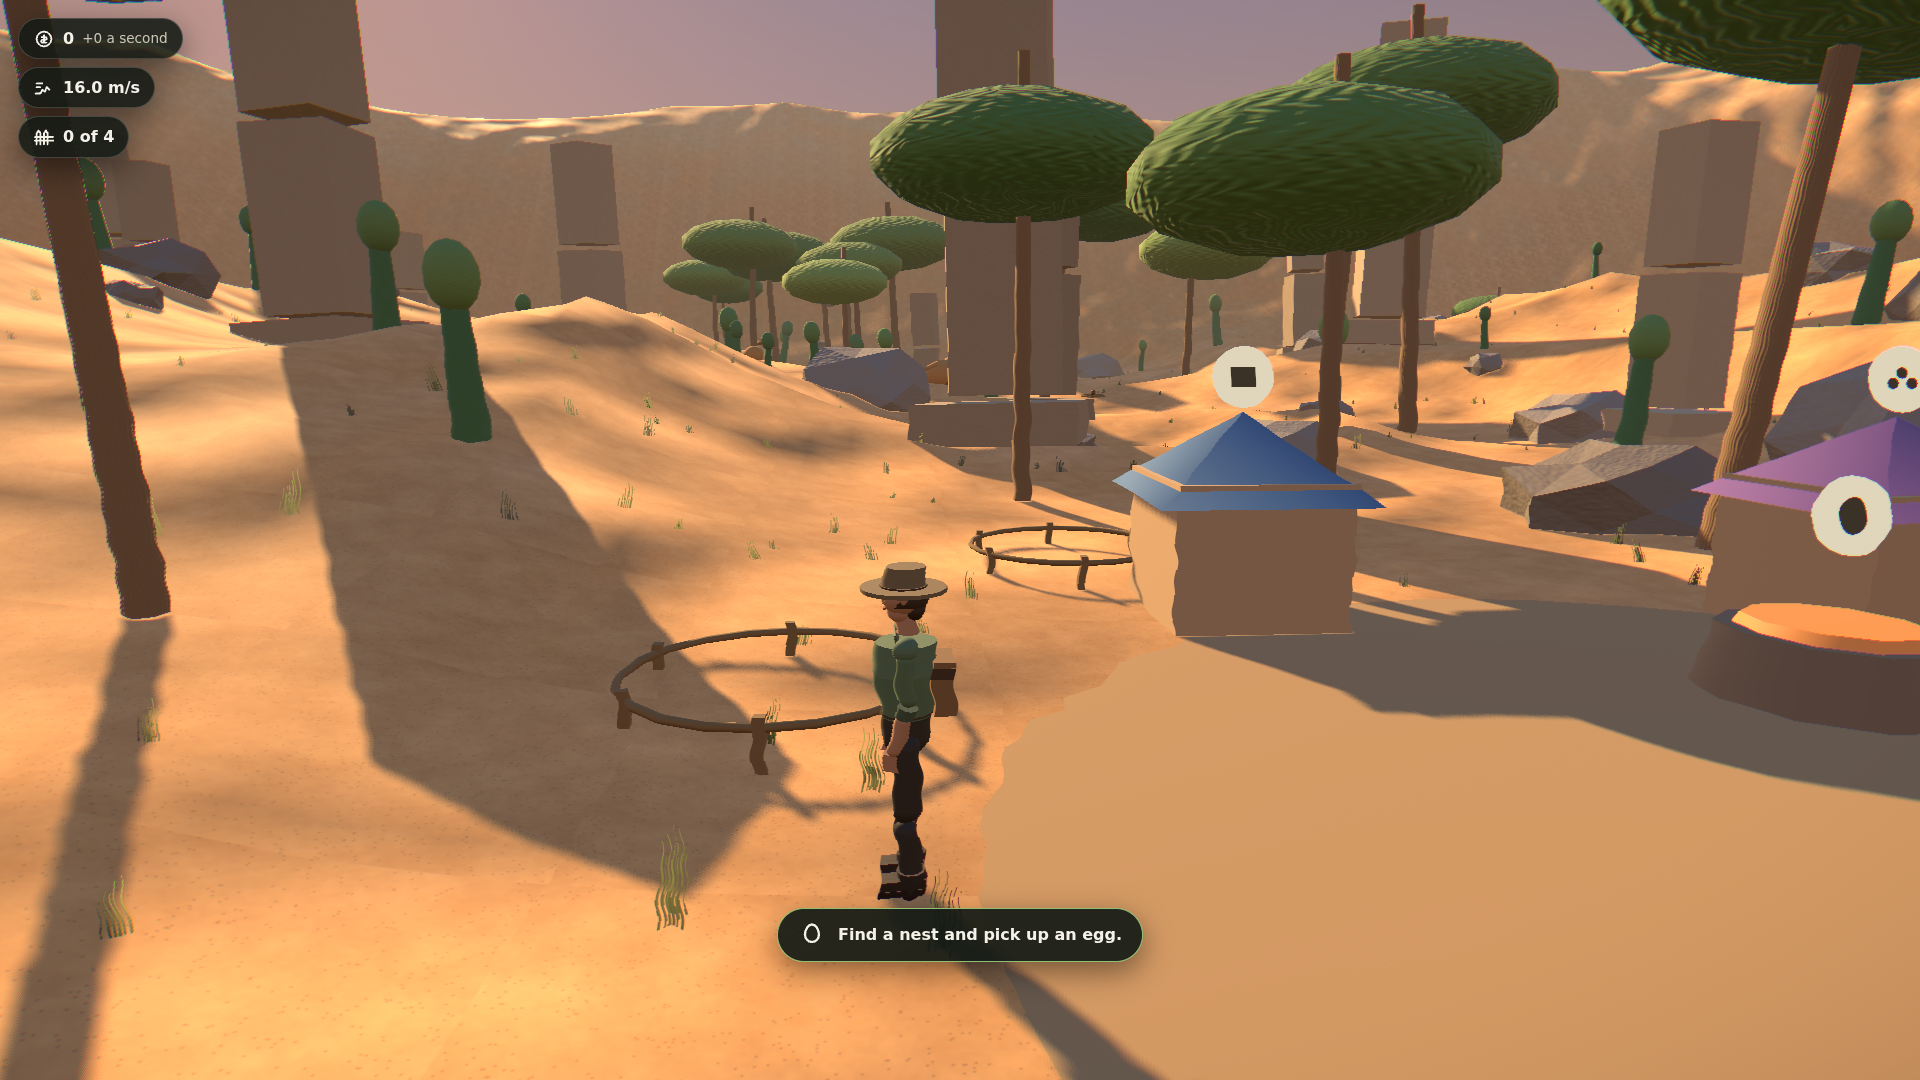
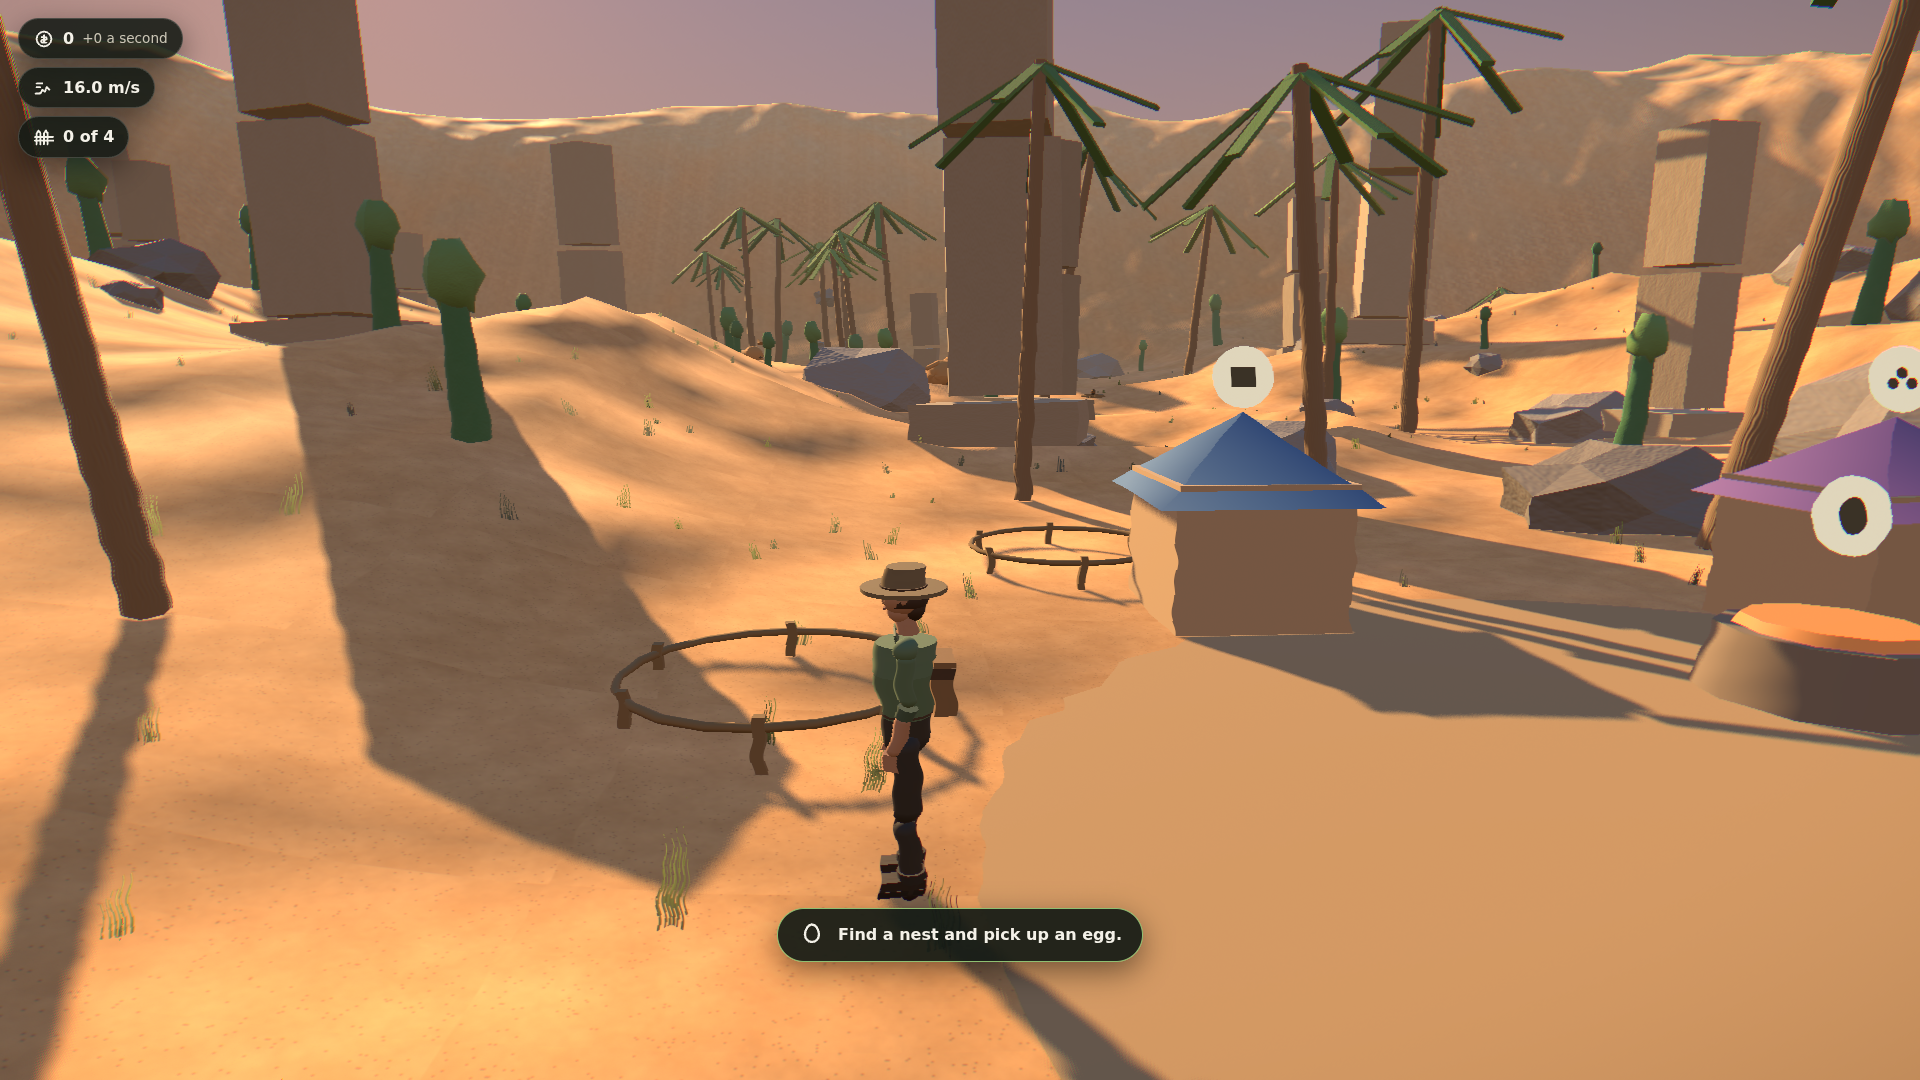
feat(render): give the world silhouettes and the creatures faces
"Graphics looked amateurish" is a mood until you name the tells, so:

Every tree was the same smooth ellipsoid. Pines went through the same
function as birches, so a pine was a birch with smaller spheres -- its
own comment noted that a cone "reads as a Christmas tree", which is
exactly what a conifer wants. A wood built from mathematically perfect
ellipsoids reads as placeholder however well it is lit, because nothing
in a wood is ever that smooth.

Conifers now get stacked cones, palms get drooping fronds instead of a
squashed sphere on a stick, and every canopy vertex is pushed along its
own normal by a hashed amount before normals are recomputed. That last
one is the big change and it costs nothing: no extra vertices, no extra
draw calls, just the ones already there moved off the perfect surface so
the light has something to catch.

Guardians got the same treatment. The Mirrormere Swan filled a third of
the screen during a chase as one featureless white capsule; it is now
broken up, and every creature has a snout -- one cone, and a head stops
being a ball. It also gives the chase a readable direction, since you
can tell what a creature is looking at from behind it.

High measures 373 draw calls against the 450 budget and fewer triangles
than before, because the conifers are cheaper than the sphere stacks.

Claude-Session: https://claude.ai/code/session_01S8vggPtgU2EjQxnnYdffEr

diff --git a/src/render/entities/creatureMesh.ts b/src/render/entities/creatureMesh.ts
@@ -21,6 +21,7 @@ import {
   type BufferGeometry,
   type Material,
 } from 'three';
+import { roughen } from '../materials/roughen';
 import type { CreatureBody } from '../../sim/types';
 
 export interface CreatureParts {
@@ -63,7 +64,17 @@ export function buildCreature(body: CreatureBody, scale = 1): CreatureParts {
   const detail = new Group();
 
   // --- body ---------------------------------------------------------------
+  /*
+   * A capsule, then broken up.
+   *
+   * A smooth capsule with a sphere stuck on the front reads as a cloud, not
+   * an animal -- the Mirrormere Swan in particular filled a third of the
+   * screen during a chase as one featureless white blob. Roughening costs no
+   * vertices and gives the light something to catch, which is most of the
+   * difference between "stylised" and "unfinished".
+   */
   const bodyGeo = new CapsuleGeometry(body.bodyRadius, body.bodyRadius * body.bodyStretch, 6, 14);
+  roughen(bodyGeo, Math.round(body.bodyRadius * 1000), 0.13);
   bodyGeo.rotateX(Math.PI / 2);
   owned.push(bodyGeo);
   const bodyMesh = new Mesh(bodyGeo, skin);
@@ -84,11 +95,27 @@ export function buildCreature(body: CreatureBody, scale = 1): CreatureParts {
   // --- head ---------------------------------------------------------------
   const headRadius = body.bodyRadius * 0.72;
   const headGeo = new SphereGeometry(headRadius, 14, 12);
+  roughen(headGeo, Math.round(headRadius * 1700), 0.1);
   owned.push(headGeo);
   const head = new Mesh(headGeo, skin);
   head.castShadow = true;
   head.position.set(0, body.bodyRadius * 0.55, body.bodyRadius * body.bodyStretch * 0.75);
   bodyMesh.add(head);
+
+  /*
+   * A snout. One cone, and the head stops being a ball.
+   *
+   * Every guardian in the game is a bird or a burrowing thing, and a face
+   * needs something that points. It also gives the chase a direction to read
+   * at a glance -- you can tell what a creature is looking at from behind.
+   */
+  const snoutGeo = new ConeGeometry(headRadius * 0.34, headRadius * 0.95, 7);
+  snoutGeo.rotateX(Math.PI / 2);
+  owned.push(snoutGeo);
+  const snout = new Mesh(snoutGeo, dark);
+  snout.castShadow = true;
+  snout.position.set(0, -headRadius * 0.12, headRadius * 0.86);
+  head.add(snout);
 
   // --- eyes ---------------------------------------------------------------
   const eyeGeo = new SphereGeometry(body.eyeSize, 10, 8);

diff --git a/src/render/world/foliageGeometry.ts b/src/render/world/foliageGeometry.ts
@@ -22,42 +22,10 @@ import {
   SphereGeometry,
 } from 'three';
 import { hash2D } from '../materials/noise';
+import { roughen } from '../materials/roughen';
 
 export type FoliageKind =
   'birch' | 'pine' | 'fern' | 'grass' | 'reed' | 'rock' | 'palm' | 'cactus' | 'ruin';
-
-/**
- * Push every vertex along its own normal by a hashed amount.
- *
- * The single biggest thing separating "stylised low-poly" from "programmer
- * art". A canopy built from `SphereGeometry` is a mathematically perfect
- * ellipsoid, and a forest of perfect ellipsoids reads as placeholder no matter
- * how well it is lit -- the eye finds the repetition instantly, because
- * nothing in a wood is ever that smooth.
- *
- * Roughening costs no vertices and no draw calls; it just moves the ones that
- * are already there. Normals are recomputed afterwards so the faceting picks
- * up the light, which is where the crispness comes from.
- */
-function roughen(geometry: BufferGeometry, seed: number, amount: number): BufferGeometry {
-  const position = geometry.attributes.position as BufferAttribute | undefined;
-  const normal = geometry.attributes.normal as BufferAttribute | undefined;
-  if (position === undefined || normal === undefined) return geometry;
-
-  for (let i = 0; i < position.count; i++) {
-    // Hash on the vertex's own position, so shared vertices move together and
-    // the surface stays closed rather than splitting into confetti.
-    const px = position.getX(i);
-    const py = position.getY(i);
-    const pz = position.getZ(i);
-    const n = hash2D(Math.round((px + pz) * 97), Math.round(py * 89), seed) - 0.5;
-    const push = 1 + n * amount;
-    position.setXYZ(i, px * push, py * push, pz * push);
-  }
-  position.needsUpdate = true;
-  geometry.computeVertexNormals();
-  return geometry;
-}
 
 /** A cross of quads: the cheapest thing that reads as a leafy clump. */
 function crossBillboard(

diff --git a/src/render/materials/roughen.ts b/src/render/materials/roughen.ts
@@ -1,0 +1,35 @@
+import type { BufferAttribute, BufferGeometry } from 'three';
+import { hash2D } from './noise';
+
+/**
+ * Push every vertex along its own normal by a hashed amount.
+ *
+ * The single biggest thing separating "stylised low-poly" from "programmer
+ * art". A canopy built from `SphereGeometry` is a mathematically perfect
+ * ellipsoid, and a forest of perfect ellipsoids reads as placeholder no matter
+ * how well it is lit -- the eye finds the repetition instantly, because
+ * nothing in a wood is ever that smooth.
+ *
+ * Roughening costs no vertices and no draw calls; it just moves the ones that
+ * are already there. Normals are recomputed afterwards so the faceting picks
+ * up the light, which is where the crispness comes from.
+ */
+export function roughen(geometry: BufferGeometry, seed: number, amount: number): BufferGeometry {
+  const position = geometry.attributes.position as BufferAttribute | undefined;
+  const normal = geometry.attributes.normal as BufferAttribute | undefined;
+  if (position === undefined || normal === undefined) return geometry;
+
+  for (let i = 0; i < position.count; i++) {
+    // Hash on the vertex's own position, so shared vertices move together and
+    // the surface stays closed rather than splitting into confetti.
+    const px = position.getX(i);
+    const py = position.getY(i);
+    const pz = position.getZ(i);
+    const n = hash2D(Math.round((px + pz) * 97), Math.round(py * 89), seed) - 0.5;
+    const push = 1 + n * amount;
+    position.setXYZ(i, px * push, py * push, pz * push);
+  }
+  position.needsUpdate = true;
+  geometry.computeVertexNormals();
+  return geometry;
+}

diff --git a/DECISIONS.md b/DECISIONS.md
@@ -440,6 +440,72 @@ not get out of it with the keyboard.** That is one of the accessibility
 promises in the brief, broken in the shipped build, hidden behind a frame
 rate. One `stopPropagation` fixes it, for this panel and every other one.
 
+## The playtest that mattered
+
+Children played it. They did not enjoy it. Verbatim: _"once I'd grabbed an egg
+I could literally walk back"_, _"being chased is too slow"_, _"graphics looked
+amateurish"_.
+
+Every gate in this repository was green at the time. That is the finding.
+
+### There was no chase
+
+Whisper Glade's guardian pursued at 4.2 m/s. The player sprints at 6.0 and
+walks at 2.6. It could not catch a walking child in the one biome every player
+actually reaches, and three other things stacked on top: a 1.2 second `alert`
+at a third of walking pace before it started moving, a give-up four seconds
+after losing sight followed by `speedFor` returning a literal zero, and a
+snatch that alerted nobody at all.
+
+The test named "every biome guardian can outrun a starting player" asserted
+`chaseSpeed > patrolSpeed`. It compared the guardian to itself. It would have
+passed at any value, and it did.
+
+### What replaced it
+
+Pursuit speed is now a fraction of the player's live Pace. An absolute number
+is either impossible at Pace 6 or irrelevant at Pace 22, and this one managed
+to be irrelevant on the first run. The guardian lunges above the player's speed
+for two seconds, then settles just below.
+
+The first attempt at the fractions was also wrong, and the arithmetic caught it
+rather than a playtest: at a 0.94 sustained fraction, a player holding sprint
+in a straight line escaped every pursuit in every biome with metres to spare.
+At 0.97 the danger band is real — caught if the guardian was within three to
+five metres when you took the egg, or within eight to ten if you lose one
+second to a tree. `tests/unit/chase.test.ts` plays that out against the real
+FSM.
+
+Two consequences had to be handled or the chase would merely have been unfair:
+
+- **Adrenaline.** Six seconds of sprint against a seven second pursuit meant
+  every escape ended with the player walking and the guardian jogging up behind
+  them — lost to a spreadsheet, not to a mistake. Stamina drains at 75% while
+  something is chasing, so a full bar buys exactly one clean escape.
+- **The egg stays on the ground.** A catch used to delete it. With a pursuit
+  that can actually catch you, that makes the whole trip a write-off, and "you
+  lose everything" is how an eight year old decides to stop playing. Now it
+  lies where it fell and going back in for it is a decision.
+
+### Amateurish, specifically
+
+Worth naming the tells rather than treating "looks cheap" as a mood:
+
+- **Every tree was the same smooth ellipsoid.** Pines went through the same
+  function as birches, so a pine was a birch with smaller spheres. A wood of
+  mathematically perfect ellipsoids reads as placeholder however well it is
+  lit, because nothing in a wood is ever that smooth. Conifers now get cones,
+  palms get fronds, and every canopy vertex is pushed along its normal by a
+  hashed amount before the normals are recomputed. It costs no vertices and no
+  draw calls.
+- **Guardians were featureless capsules.** The Mirrormere Swan filled a third
+  of the screen during a chase as one white blob. Same roughening, plus a
+  snout — one cone, and a head stops being a ball.
+
+High measured 373 draw calls against the 450 budget afterwards, and fewer
+triangles than before, because the conifers are cheaper than the sphere stacks
+they replaced.
+
 ## Performance — measuring the budget properly
 
 ### Reading the counters at all
